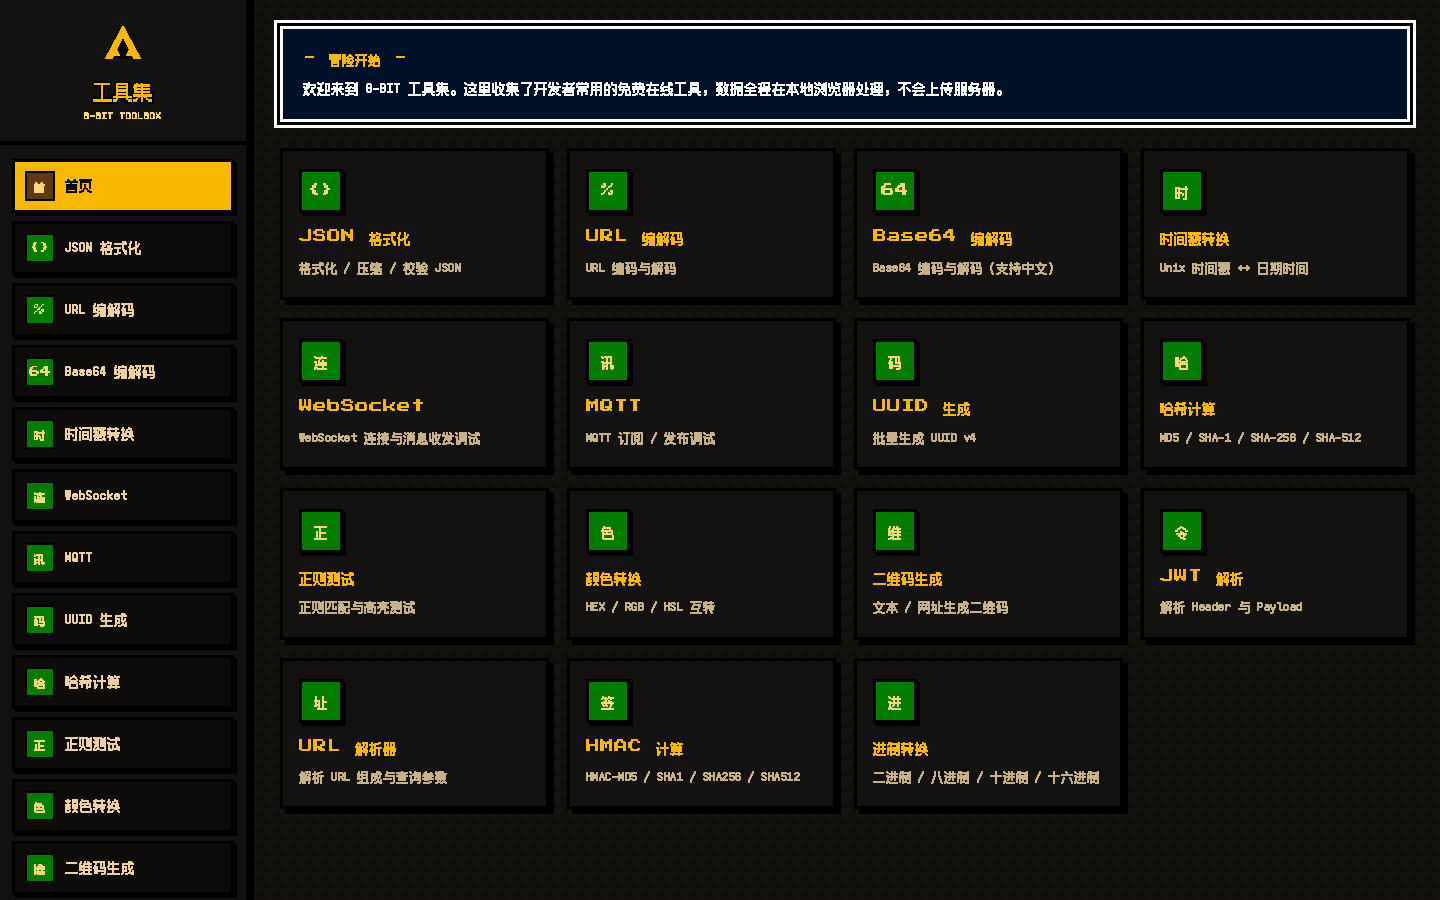
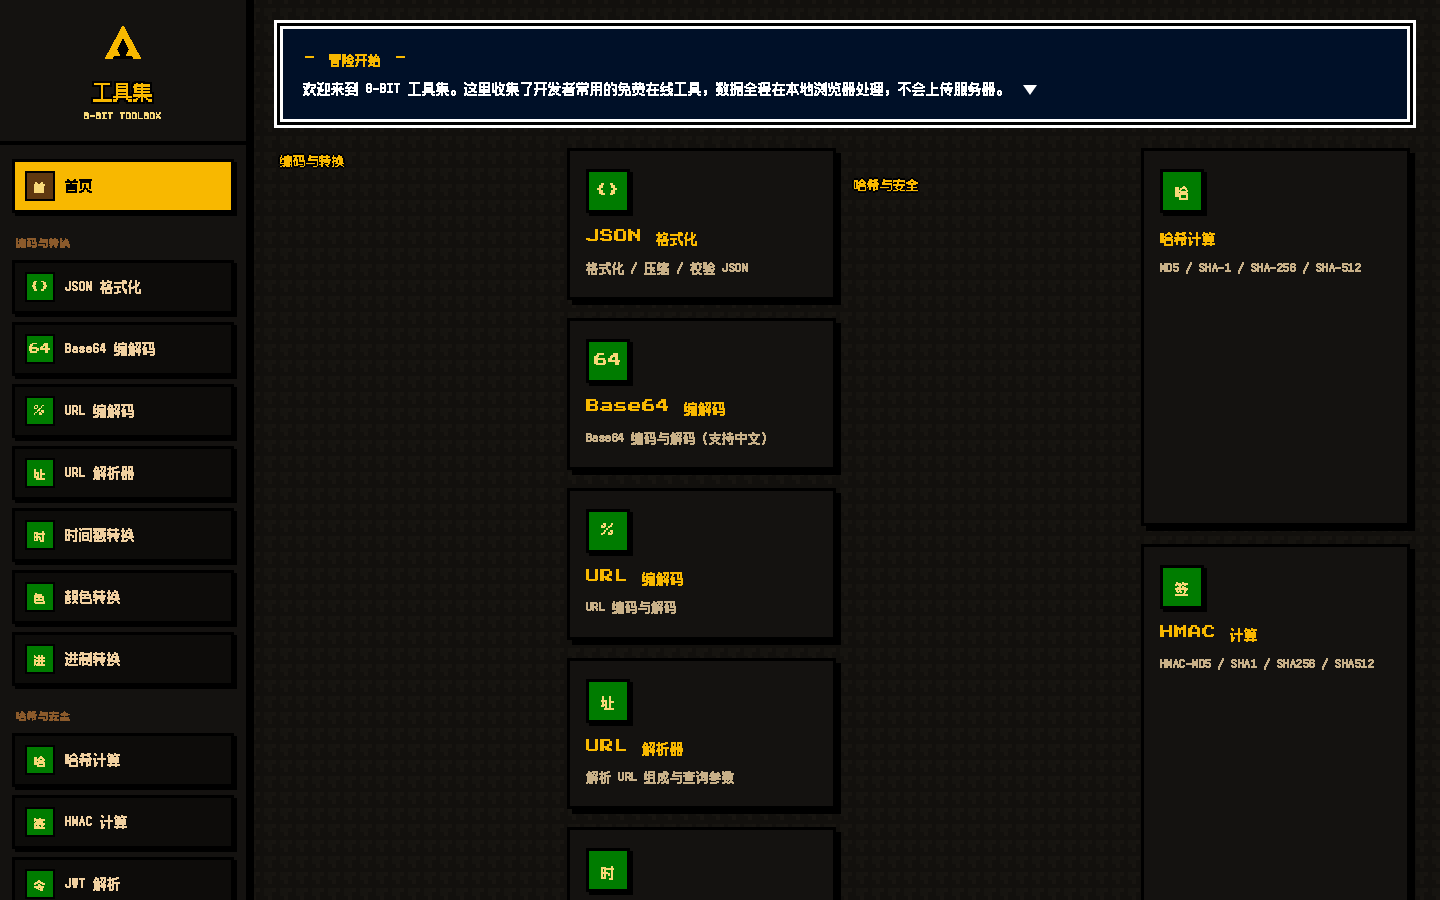
feat: 首页分类菜单、像素滚动条，新增字符统计/大小写/随机密码

diff --git a/index.html b/index.html
@@ -111,6 +111,18 @@ body{
 .nav-item.active{background:var(--gold);color:#000;box-shadow:3px 3px 0 0 #000}
 .nav-item.active .ico{background:var(--brown-dark);color:var(--gold-light)}
 
+.nav-cat{
+  font-family:var(--font-title);font-size:10px;
+  color:var(--brown);letter-spacing:1px;
+  padding:12px 4px 2px;
+}
+.cat-title{
+  font-family:var(--font-title);font-size:13px;color:var(--gold);
+  margin:24px 0 12px;
+  text-shadow:2px 0 0 #000,-2px 0 0 #000,0 2px 0 #000,0 -2px 0 #000;
+}
+.cat-title:first-child{margin-top:0}
+
 .side-foot{padding:14px 18px;border-top:4px solid #000;margin-top:auto;display:flex;align-items:center;gap:8px}
 .side-foot .hearts{display:flex;gap:3px}
 .side-foot .h{width:14px;height:14px}
@@ -232,9 +244,13 @@ h2{font-family:var(--font-title);font-size:18px;color:var(--gold);text-shadow:2p
 }
 .io:focus{border-color:var(--gold)}
 .io--out{background:#0a0a08;color:var(--gold-light)}
-.io::-webkit-scrollbar{width:12px}
-.io::-webkit-scrollbar-thumb{background:var(--brown);border:2px solid #000}
-.io::-webkit-scrollbar-track{background:#0d0d0d}
+/* 全局像素风滚动条 */
+*{scrollbar-width:thin;scrollbar-color:var(--brown) #0d0c0a}
+::-webkit-scrollbar{width:14px;height:14px}
+::-webkit-scrollbar-track{background:#0d0c0a;border:2px solid #000}
+::-webkit-scrollbar-thumb{background:var(--brown);border:3px solid #000}
+::-webkit-scrollbar-thumb:hover{background:var(--gold)}
+::-webkit-scrollbar-corner{background:#0d0c0a}
 
 /* 时间戳字段 */
 .field{margin-bottom:14px}
@@ -365,23 +381,9 @@ select.btn{appearance:none;-webkit-appearance:none}
         <h1>工具集</h1>
         <div class="sub">8-BIT TOOLBOX</div>
       </div>
-      <nav class="nav">
-        <a class="nav-item active" data-tool="home" onclick="showView('home')"><span class="ico">首</span>首页</a>
-        <a class="nav-item" data-tool="json" onclick="showView('json')"><span class="ico">{}</span>JSON 格式化</a>
-        <a class="nav-item" data-tool="url" onclick="showView('url')"><span class="ico">%</span>URL 编解码</a>
-        <a class="nav-item" data-tool="b64" onclick="showView('b64')"><span class="ico">64</span>Base64 编解码</a>
-        <a class="nav-item" data-tool="ts" onclick="showView('ts')"><span class="ico">时</span>时间戳转换</a>
-        <a class="nav-item" data-tool="ws" onclick="showView('ws')"><span class="ico">连</span>WebSocket</a>
-        <a class="nav-item" data-tool="mqtt" onclick="showView('mqtt')"><span class="ico">讯</span>MQTT</a>
-        <a class="nav-item" data-tool="uuid" onclick="showView('uuid')"><span class="ico">码</span>UUID 生成</a>
-        <a class="nav-item" data-tool="hash" onclick="showView('hash')"><span class="ico">哈</span>哈希计算</a>
-        <a class="nav-item" data-tool="re" onclick="showView('re')"><span class="ico">正</span>正则测试</a>
-        <a class="nav-item" data-tool="color" onclick="showView('color')"><span class="ico">色</span>颜色转换</a>
-        <a class="nav-item" data-tool="qr" onclick="showView('qr')"><span class="ico">维</span>二维码生成</a>
-        <a class="nav-item" data-tool="jwt" onclick="showView('jwt')"><span class="ico">令</span>JWT 解析</a>
-        <a class="nav-item" data-tool="urlp" onclick="showView('urlp')"><span class="ico">址</span>URL 解析器</a>
-        <a class="nav-item" data-tool="hmac" onclick="showView('hmac')"><span class="ico">签</span>HMAC 计算</a>
-        <a class="nav-item" data-tool="base" onclick="showView('base')"><span class="ico">进</span>进制转换</a>
+      <nav class="nav" id="nav">
+        <a class="nav-item active" data-tool="home"><span class="ico">首</span>首页</a>
+        <!-- 分类菜单由 JS 渲染 -->
       </nav>
       <div class="side-foot">
         <div class="hearts">
@@ -406,7 +408,7 @@ select.btn{appearance:none;-webkit-appearance:none}
             <span class="cursor"></span>
           </div>
         </div>
-        <div class="grid">
+        <div class="grid" id="home-grid">
           <a class="card" onclick="showView('json')">
             <div class="c-ico">{}</div>
             <div class="c-name">JSON 格式化</div>
@@ -942,6 +944,86 @@ select.btn{appearance:none;-webkit-appearance:none}
         </div>
       </section>
 
+      <!-- 字符统计 -->
+      <section class="view view--tool" id="view-stats">
+        <div class="title-row"><div class="badge">数</div><h2>字符统计</h2></div>
+        <p class="tool-desc">统计字符、单词、行、字节与中文字数。</p>
+        <div class="toolbar">
+          <button class="btn" onclick="countStats()">统计</button>
+          <button class="btn btn--gold" onclick="copyText('stats-out')">复制结果</button>
+          <button class="btn btn--red" onclick="clearBoth('stats-in','stats-out')">清空</button>
+        </div>
+        <div class="split">
+          <div class="pane pane--in">
+            <div class="pane-head"><span class="tag">输入 INPUT</span><span class="hint">文本</span></div>
+            <textarea class="io" id="stats-in" spellcheck="false" placeholder="输入要统计的文本…"></textarea>
+          </div>
+          <div class="split-arrow"><div class="arrow"></div></div>
+          <div class="pane pane--out">
+            <div class="pane-head"><span class="tag">输出 OUTPUT</span><span class="hint">统计结果</span></div>
+            <textarea class="io io--out" id="stats-out" readonly spellcheck="false" placeholder="统计结果…"></textarea>
+          </div>
+        </div>
+      </section>
+
+      <!-- 大小写 -->
+      <section class="view view--tool" id="view-case">
+        <div class="title-row"><div class="badge">Aa</div><h2>大小写转换</h2></div>
+        <p class="tool-desc">大写 / 小写 / 首字母大写 / 反转大小写。</p>
+        <div class="toolbar">
+          <button class="btn" onclick="toUpper()">全部大写</button>
+          <button class="btn" onclick="toLower()">全部小写</button>
+          <button class="btn btn--blue" onclick="toTitle()">首字母大写</button>
+          <button class="btn" onclick="toToggle()">反转大小写</button>
+          <button class="btn btn--gold" onclick="copyText('case-out')">复制结果</button>
+          <button class="btn btn--red" onclick="clearBoth('case-in','case-out')">清空</button>
+        </div>
+        <div class="split">
+          <div class="pane pane--in">
+            <div class="pane-head"><span class="tag">输入 INPUT</span><span class="hint">原文</span></div>
+            <textarea class="io" id="case-in" spellcheck="false" placeholder="输入文本…"></textarea>
+          </div>
+          <div class="split-arrow"><div class="arrow"></div></div>
+          <div class="pane pane--out">
+            <div class="pane-head"><span class="tag">输出 OUTPUT</span><span class="hint">结果（只读）</span></div>
+            <textarea class="io io--out" id="case-out" readonly spellcheck="false" placeholder="转换结果…"></textarea>
+          </div>
+        </div>
+      </section>
+
+      <!-- 随机密码 -->
+      <section class="view view--tool" id="view-pwd">
+        <div class="title-row"><div class="badge">密</div><h2>随机密码</h2></div>
+        <p class="tool-desc">生成强随机密码（使用 crypto.getRandomValues）。</p>
+        <div class="toolbar">
+          <button class="btn" onclick="genPwd()">生成</button>
+          <button class="btn btn--gold" onclick="copyText('pwd-out')">复制结果</button>
+          <button class="btn btn--red" onclick="clearBoth('pwd-out','pwd-out')">清空</button>
+        </div>
+        <div class="split">
+          <div class="pane pane--in">
+            <div class="pane-head"><span class="tag">输入 INPUT</span><span class="hint">参数</span></div>
+            <div class="field">
+              <label>密码长度（4-128）</label>
+              <input class="io-input" id="pwd-len" value="16" inputmode="numeric">
+            </div>
+            <div class="field">
+              <label style="display:flex;flex-wrap:wrap;gap:14px">
+                <span><input type="checkbox" id="pwd-upper" checked> 大写</span>
+                <span><input type="checkbox" id="pwd-lower" checked> 小写</span>
+                <span><input type="checkbox" id="pwd-num" checked> 数字</span>
+                <span><input type="checkbox" id="pwd-sym" checked> 符号</span>
+              </label>
+            </div>
+          </div>
+          <div class="split-arrow"><div class="arrow"></div></div>
+          <div class="pane pane--out">
+            <div class="pane-head"><span class="tag">输出 OUTPUT</span><span class="hint">密码</span></div>
+            <textarea class="io io--out" id="pwd-out" readonly spellcheck="false" placeholder="生成的密码…"></textarea>
+          </div>
+        </div>
+      </section>
+
     </main>
   </div>
 
@@ -1451,12 +1533,127 @@ function baseClear(){
   setVal('base-out-oct',''); setVal('base-out-bin',''); msg('ok','已清空');
 }
 
+/* ---- 工具菜单（数据驱动，按分类渲染） ---- */
+var TOOLS = [
+  {cat:'编码与转换', id:'json',  name:'JSON 格式化', icon:'{}', desc:'格式化 / 压缩 / 校验 JSON'},
+  {cat:'编码与转换', id:'b64',   name:'Base64 编解码', icon:'64', desc:'Base64 编码与解码（支持中文）'},
+  {cat:'编码与转换', id:'url',   name:'URL 编解码', icon:'%', desc:'URL 编码与解码'},
+  {cat:'编码与转换', id:'urlp',  name:'URL 解析器', icon:'址', desc:'解析 URL 组成与查询参数'},
+  {cat:'编码与转换', id:'ts',    name:'时间戳转换', icon:'时', desc:'Unix 时间戳 ↔ 日期时间'},
+  {cat:'编码与转换', id:'color', name:'颜色转换', icon:'色', desc:'HEX / RGB / HSL 互转'},
+  {cat:'编码与转换', id:'base',  name:'进制转换', icon:'进', desc:'二 / 八 / 十 / 十六进制互转'},
+  {cat:'哈希与安全', id:'hash',  name:'哈希计算', icon:'哈', desc:'MD5 / SHA-1 / SHA-256 / SHA-512'},
+  {cat:'哈希与安全', id:'hmac',  name:'HMAC 计算', icon:'签', desc:'HMAC-MD5 / SHA1 / SHA256 / SHA512'},
+  {cat:'哈希与安全', id:'jwt',   name:'JWT 解析', icon:'令', desc:'解析 Header 与 Payload'},
+  {cat:'文本工具',   id:'re',    name:'正则测试', icon:'正', desc:'正则匹配与高亮测试'},
+  {cat:'文本工具',   id:'stats', name:'字符统计', icon:'数', desc:'字符 / 单词 / 行 / 字节统计'},
+  {cat:'文本工具',   id:'case',  name:'大小写转换', icon:'Aa', desc:'大写 / 小写 / 首字母 / 反转'},
+  {cat:'生成器',     id:'uuid',  name:'UUID 生成', icon:'码', desc:'批量生成 UUID v4'},
+  {cat:'生成器',     id:'qr',    name:'二维码生成', icon:'维', desc:'文本 / 网址生成二维码'},
+  {cat:'生成器',     id:'pwd',   name:'随机密码', icon:'密', desc:'生成强随机密码'},
+  {cat:'网络调试',   id:'ws',    name:'WebSocket', icon:'连', desc:'WebSocket 连接与消息调试'},
+  {cat:'网络调试',   id:'mqtt',  name:'MQTT', icon:'讯', desc:'MQTT 订阅 / 发布调试'}
+];
+
+function renderMenu(){
+  var nav=document.getElementById('nav');
+  var grid=document.getElementById('home-grid');
+  var cats=[], seen={};
+  TOOLS.forEach(function(t){ if(!seen[t.cat]){ seen[t.cat]=1; cats.push(t.cat); } });
+  var navH='', gridH='';
+  cats.forEach(function(cat){
+    navH += '<div class="nav-cat">'+cat+'</div>';
+    gridH += '<h3 class="cat-title">'+cat+'</h3><div class="grid">';
+    TOOLS.forEach(function(t){
+      if(t.cat!==cat) return;
+      navH += '<a class="nav-item" data-tool="'+t.id+'"><span class="ico">'+t.icon+'</span>'+t.name+'</a>';
+      gridH += '<a class="card" data-tool="'+t.id+'"><div class="c-ico">'+t.icon+'</div><div class="c-name">'+t.name+'</div><div class="c-desc">'+t.desc+'</div></a>';
+    });
+    gridH += '</div>';
+  });
+  nav.insertAdjacentHTML('beforeend', navH);
+  grid.innerHTML = gridH;
+}
+
+/* 事件委托：点击带 data-tool 的元素切换视图 */
+document.addEventListener('click', function(e){
+  var t=e.target;
+  while(t && t!==document){
+    if(t.getAttribute && t.getAttribute('data-tool')){ showView(t.getAttribute('data-tool')); return; }
+    t=t.parentNode;
+  }
+});
+
+/* ---- 字符统计 ---- */
+function countStats(){
+  var text=val('stats-in');
+  if(text===''){msg('error','请输入文本');return}
+  var chars=text.length;
+  var noSpace=text.split(' ').join('').length;
+  var words=text.trim()===''?0:text.trim().split(/\s+/).length;
+  var lines=text===''?0:text.split('\n').length;
+  var bytes=new TextEncoder().encode(text).length;
+  var cn=0;
+  for(var i=0;i<text.length;i++){var c=text.charCodeAt(i);if(c>=0x4e00&&c<=0x9fff)cn++;}
+  var out=[
+    '字符数（含空格）: '+chars,
+    '字符数（不含空格）: '+noSpace,
+    '单词数: '+words,
+    '行数: '+lines,
+    '中文字数: '+cn,
+    '字节数(UTF-8): '+bytes
+  ];
+  setVal('stats-out', out.join('\n'));
+  msg('ok','统计完成');
+}
+
+/* ---- 大小写转换 ---- */
+function toUpper(){ setVal('case-out', val('case-in').toUpperCase()); msg('ok','已转大写'); }
+function toLower(){ setVal('case-out', val('case-in').toLowerCase()); msg('ok','已转小写'); }
+function toTitle(){
+  var s=val('case-in').toLowerCase();
+  var out=s.split(' ').map(function(w){ return w?w.charAt(0).toUpperCase()+w.slice(1):w; }).join(' ');
+  setVal('case-out', out);
+  msg('ok','已转首字母大写');
+}
+function toToggle(){
+  var s=val('case-in');
+  var out='';
+  for(var i=0;i<s.length;i++){
+    var c=s.charAt(i);
+    out += c===c.toUpperCase() ? c.toLowerCase() : c.toUpperCase();
+  }
+  setVal('case-out', out);
+  msg('ok','已反转大小写');
+}
+
+/* ---- 随机密码 ---- */
+function genPwd(){
+  var len=parseInt(val('pwd-len'),10);
+  if(isNaN(len)||len<4)len=4;
+  if(len>128)len=128;
+  var sets='';
+  if(document.getElementById('pwd-upper').checked)sets+='ABCDEFGHIJKLMNOPQRSTUVWXYZ';
+  if(document.getElementById('pwd-lower').checked)sets+='abcdefghijklmnopqrstuvwxyz';
+  if(document.getElementById('pwd-num').checked)sets+='0123456789';
+  if(document.getElementById('pwd-sym').checked)sets+='!@#$%^&*()-_=+[]{};:,.<>?';
+  if(!sets){msg('error','请至少选择一类字符');return}
+  var out='';
+  var arr=new Uint32Array(len);
+  if(window.crypto&&crypto.getRandomValues){ crypto.getRandomValues(arr); }
+  else{ for(var i=0;i<len;i++)arr[i]=Math.floor(Math.random()*0xffffffff); }
+  for(var j=0;j<len;j++){ out+=sets.charAt(arr[j]%sets.length); }
+  setVal('pwd-out', out);
+  msg('ok','已生成 '+len+' 位密码');
+}
+
 /* ---- hash 路由 ---- */
 function initHash(){
   var h=location.hash.replace('#','');
   if(h&&document.getElementById('view-'+h)){showView(h)}
 }
 window.addEventListener('hashchange',initHash);
+renderMenu();
 initHash();
 </script>
 </body>

diff --git a/README.md b/README.md
@@ -21,6 +21,9 @@
 | URL 解析器 | 解析 URL 组成与查询参数 |
 | HMAC 计算 | HMAC-MD5 / SHA1 / SHA256 / SHA512 |
 | 进制转换 | 二进制 / 八进制 / 十进制 / 十六进制互转 |
+| 字符统计 | 字符 / 单词 / 行 / 字节 / 中文字数统计 |
+| 大小写转换 | 大写 / 小写 / 首字母 / 反转 |
+| 随机密码 | 生成强随机密码 |
 
 ## 特点
 
